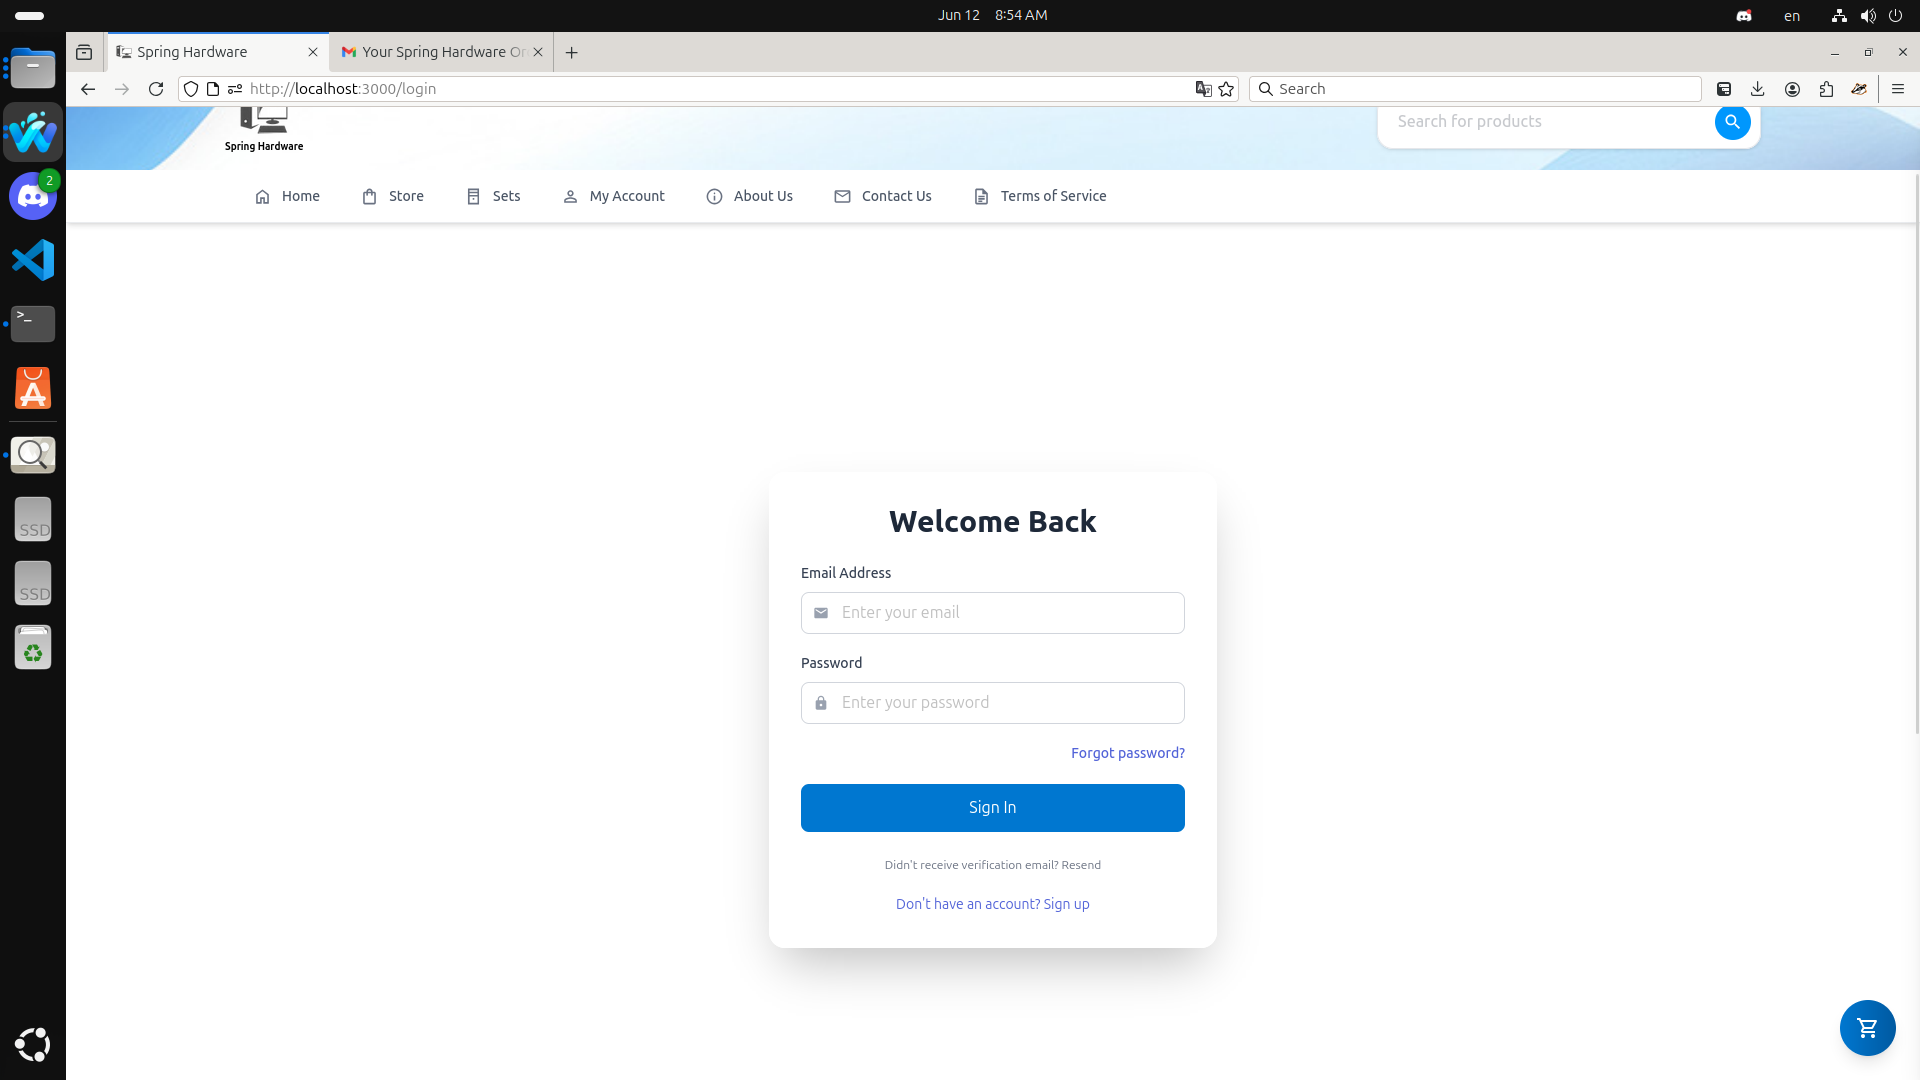
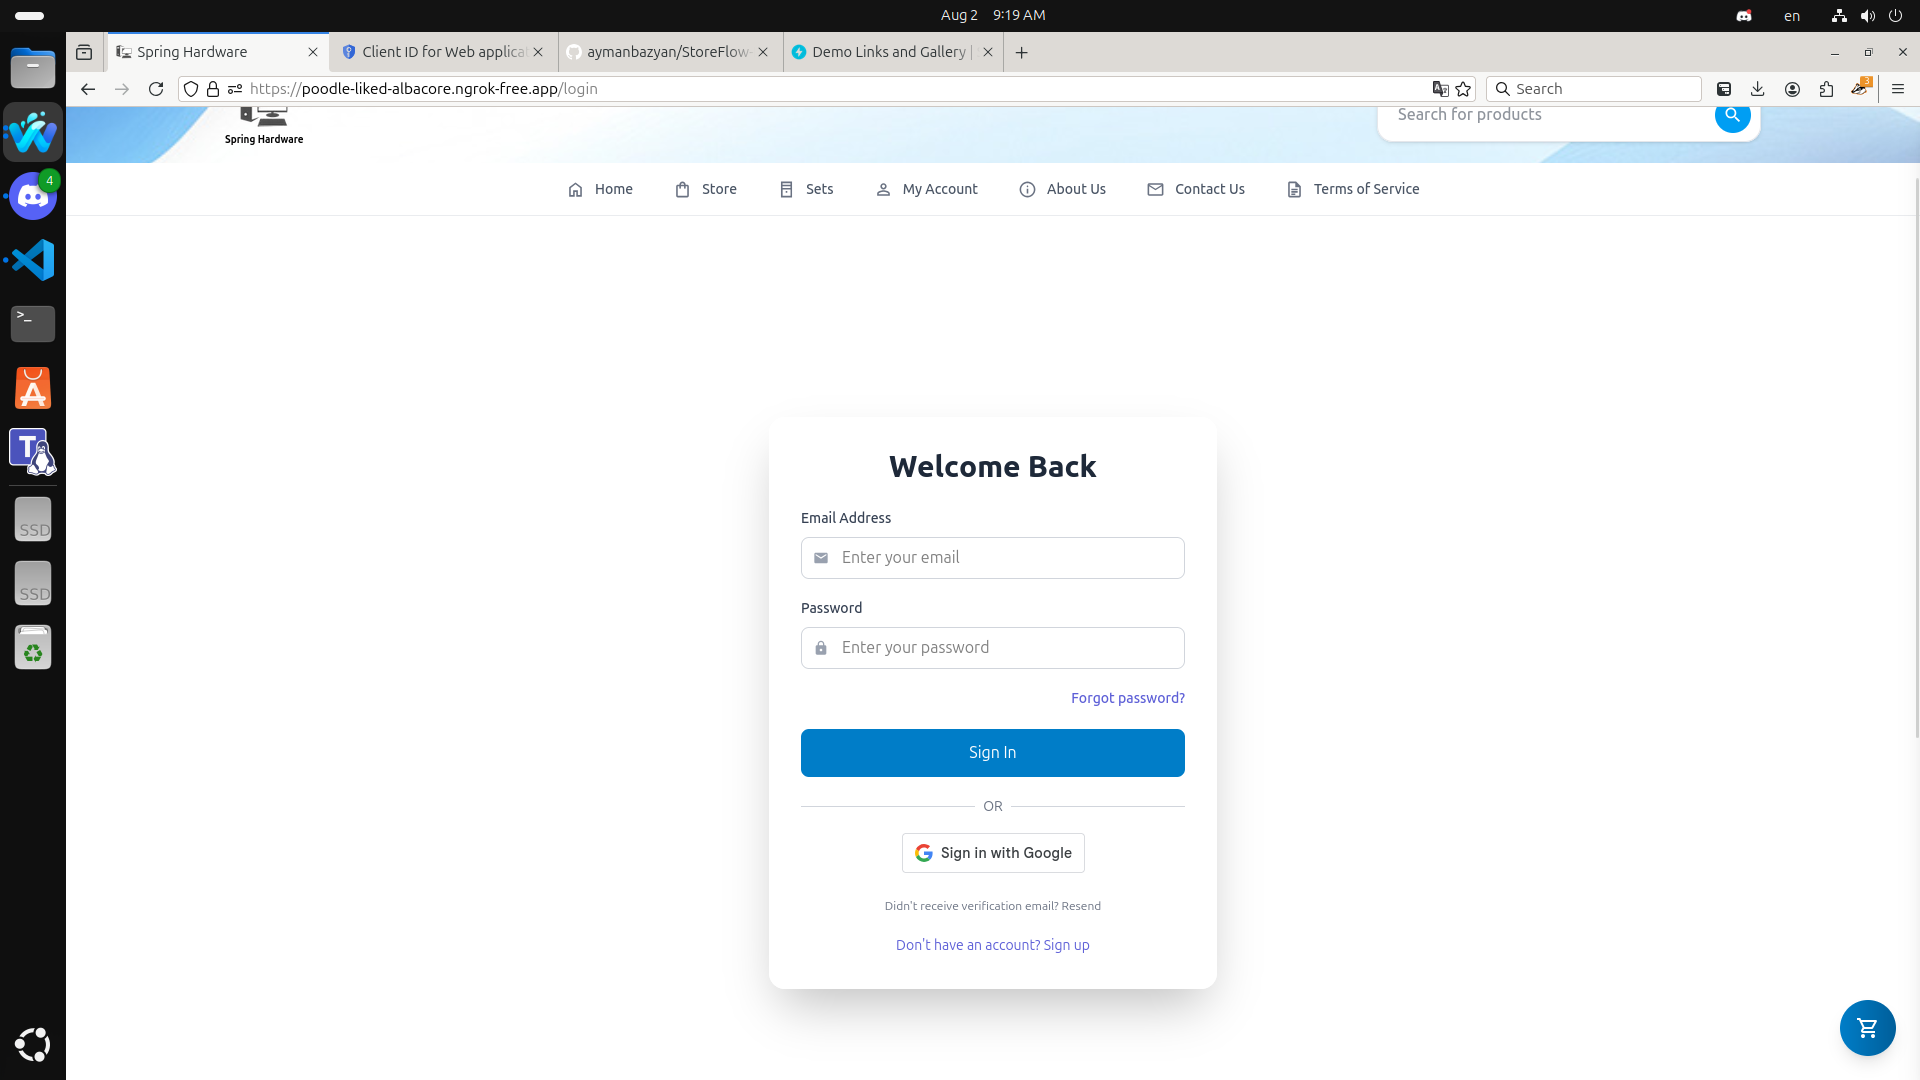
general improvements

diff --git a/docs/01-Overview/01-About.md b/docs/01-Overview/01-About.md
@@ -66,7 +66,7 @@ A clean and intuitive interface for customers to browse, shop, and purchase.
 
 - **Dynamic Shopping Cart:** A sidebar cart lets users easily view and manage their selected items.
 - **Seamless Checkout:** A streamlined, multi-step process for placing orders.
-- **Payment Options:** Includes Cash on Delivery, with planned support for **Credit Card** and **PayPal**.
+- **Payment Options:** Includes **Cash on Delivery**, with planned support for **Credit Card** (soon) and **PayPal** (soon).
 - **Printable Invoices:** Customers can generate and print PDF invoices for their orders.
 - **Automated Email Notifications:** Customers automatically receive emails for important order updates (e.g., confirmation, rejection, admin's notes).
 - **Reviews:** Customers will be able to leave reviews (Stars rate and a Comment) in products and sets that has been delivered.
@@ -77,7 +77,7 @@ A clean and intuitive interface for customers to browse, shop, and purchase.
 
 A dedicated area for registered customers to manage their activity.
 
-- **Secure Authentication:** Standard email/password login, with a reset password form.
+- **Secure Authentication:** Standard email/password login, with a **Reset password** form, and support for **Google Oauth Login**.
 - **Personal Dashboard:** A central "My Account" page to manage personal info, wishlists, and orders.
 - **Order History & Control:** View all past orders and their current status (e.g., pending, approved). Customers can also cancel a recently placed order.
 - **Wishlist:** Save favorite products for later purchase.
@@ -87,8 +87,7 @@ A dedicated area for registered customers to manage their activity.
 
 #### **And there's more!**
 
-_Last updated on July 6, 2025 by Ayman._
+_Last updated on August 2, 2025 by Ayman._
 
 <!-- - **Real-time Notifications:** See new orders appear instantly without needing to refresh the page. -->
 <!-- - **Improved Loading:** Skeleton screens provide a faster, smoother browsing experience. -->
-<!-- , with upcoming support for **Google Social Login**. -->

diff --git a/docs/01-Overview/02-Tech-Stack-Concepts.md b/docs/01-Overview/02-Tech-Stack-Concepts.md
@@ -10,7 +10,7 @@
 
 - API: Next.js API routes
 
-- [Deployment: Vercel / Asura Hosting (soon)](/docs/Getting-Started/Deployment)
+- [Deployment: Vercel / Asura Hosting (soon)](/docs/Setup-Store/Deployment)
 
 ---
 
@@ -246,8 +246,9 @@ model Users {
   slug                     String     @id @db.VarChar(100)
   created_at               DateTime   @default(now())
   email                    String     @unique @db.VarChar(255)
-  passwordHash             String     @db.VarChar(255)
+  passwordHash             String?    @db.VarChar(255)
   displayName              String     @db.VarChar(100)
+  isGoogleAuth             Boolean    @default(false)
   isAdmin                  Boolean    @default(false)
   passwordResetToken       String?    @unique @db.VarChar(100)
   passwordResetExpires     DateTime?
@@ -580,6 +581,7 @@ This project uses the **Next.js App Router**, which organizes the application fi
     - **`api/`**: Backend API endpoints (Route Handlers).
       - `auth/`: Handles user authentication (login, signout, session check).
       - `backup/`: API endpoint to trigger a server backup.
+      - `healthcheck/`: Slight API endpoint to check if the server is running (used in the mobile app).
       - `uploads/[...path]`: API endpoint to get uploaded files.
       - `cron/`: Endpoints designed to be called by scheduled jobs (e.g., cleanup tasks).
       - `tables/`: A generic, dynamic API for performing CRUD operations on database tables, likely used by the admin panel.
@@ -616,4 +618,4 @@ This project uses the **Next.js App Router**, which organizes the application fi
 
 ---
 
-_Last updated on July 22, 2025 by Ayman._
+_Last updated on August 2, 2025 by Ayman._

diff --git a/docs/02-Setup-Store/03-Config.md b/docs/02-Setup-Store/03-Config.md
@@ -21,6 +21,8 @@ JWT_SECRET="your-very-strong-jwt-secret-key-here-at-least-32-characters"
 SESSION_DURATION=7d
 SHORT_LIVED_TOKEN_HOURS=1
 
+NEXT_PUBLIC_GOOGLE_CLIENT_ID="your-google-client-id.apps.googleusercontent.com"
+
 #// Database, check the previous page
 DATABASE_URL="postgresql://username:password@localhost:5432/your_database_name"
 
@@ -47,7 +49,11 @@ AUTH_LIMIT_RESET_TIME=3600000
 Nobody should see this file.
 :::
 
-Make sure you replace `JWT_SECRET`, `DATABASE_URL`, `APP_BASE_URL`, `NEXT_PUBLIC_NODE_ENV`, `EMAIL_MAIL` and `EMAIL_PASS`, especially when deploying it to production.
+Make sure you replace `JWT_SECRET`, `DATABASE_URL`, `APP_BASE_URL`, `NEXT_PUBLIC_NODE_ENV`, `EMAIL_MAIL`, `EMAIL_PASS` and `NEXT_PUBLIC_GOOGLE_CLIENT_ID`, especially when deploying it to production.
+
+---
+
+To get the `NEXT_PUBLIC_GOOGLE_CLIENT_ID`, you must go to [Google Cloud Credentials](https://console.cloud.google.com/apis/credentials), create `OAuth 2.0 Client ID`, and copy the `Client ID`, then click on it and add the `NEXT_PUBLIC_APP_BASE_URL` to the **Authorised JavaScript origins**.
 
 ---
 
@@ -59,7 +65,7 @@ Open your terminal and run these.
 
 ```
 npm run prisma:init
-npm run prisma:migrate:dev
+npm run prisma:migrate:dev-reset
 npm run prisma:push
 ```
 
@@ -79,4 +85,4 @@ Replace `aymen` with the actual user (your operating system user).
 
 ---
 
-_Last updated on July 22, 2025 by Ayman._
+_Last updated on August 2, 2025 by Ayman._

diff --git a/docs/04-Guides/Store-Management/01-How-to-open-the-Admin-Panel.md b/docs/04-Guides/Store-Management/01-How-to-open-the-Admin-Panel.md
@@ -2,7 +2,7 @@
 
 ---
 
-After setting your admin account in [Admin account section](/docs/Getting-Started/Admin-account), can click on your account in the header, and you'll see the `Admin dashboard` button.
+After setting your admin account in [Admin account section](/docs/Setup-Store/Admin-account), can click on your account in the header, and you'll see the `Admin dashboard` button.
 
 :::warning
 Make sure to use a very strong password for the admin's account.

diff --git a/docs/02-Setup-Store/04-Admin-account.md b/docs/02-Setup-Store/04-Admin-account.md
@@ -26,6 +26,17 @@ e.g: `myaccount123@gmail.com` the username is `myaccount123`
 Make sure to use a very strong password for the admin's account.
 :::
 
+:::tip
+For testing purposes, you can create a fake user with any email using
+
+```
+npm run manage-users -- --make-fake-user <username>
+```
+
+You will then see the account's info in the console.
+
+:::
+
 ---
 
-_Last updated on July 2, 2025 by Ayman._
+_Last updated on August 2, 2025 by Ayman._

diff --git a/docs/01-Overview/03-Demo Links-and-Gallery.md b/docs/01-Overview/03-Demo Links-and-Gallery.md
@@ -304,4 +304,4 @@ This chart has fake records for testing purposes, unrelated to other cards.
 
 # There's even more details to see in the website!
 
-_Last updated on July 22, 2025 by Ayman._
+_Last updated on August 2, 2025 by Ayman._

diff --git a/docs/02-Setup-Store/01-intro.md b/docs/02-Setup-Store/01-intro.md
@@ -1,10 +1,10 @@
-# Tutorial Intro
+# Getting Started
 
 ---
 
 Let's discover **Storeflow in less than 5 minutes**.
 
-## Getting Started
+## Basic setup
 
 Get started by **opening any code editor**.
 

diff --git a/docs/02-Setup-Store/08-Deployment.md b/docs/02-Setup-Store/08-Deployment.md
@@ -1,0 +1,7 @@
+# Deployment (soon)
+
+soon...
+
+:::tip
+You can use [ngrok](https://ngrok.com) for now (for testing).
+:::

diff --git a/docs/02-Setup-Store/09-Setup-mobile-app/1-intro.md b/docs/02-Setup-Store/09-Setup-mobile-app/1-intro.md
@@ -1,0 +1,3 @@
+# Getting started
+
+Soon
